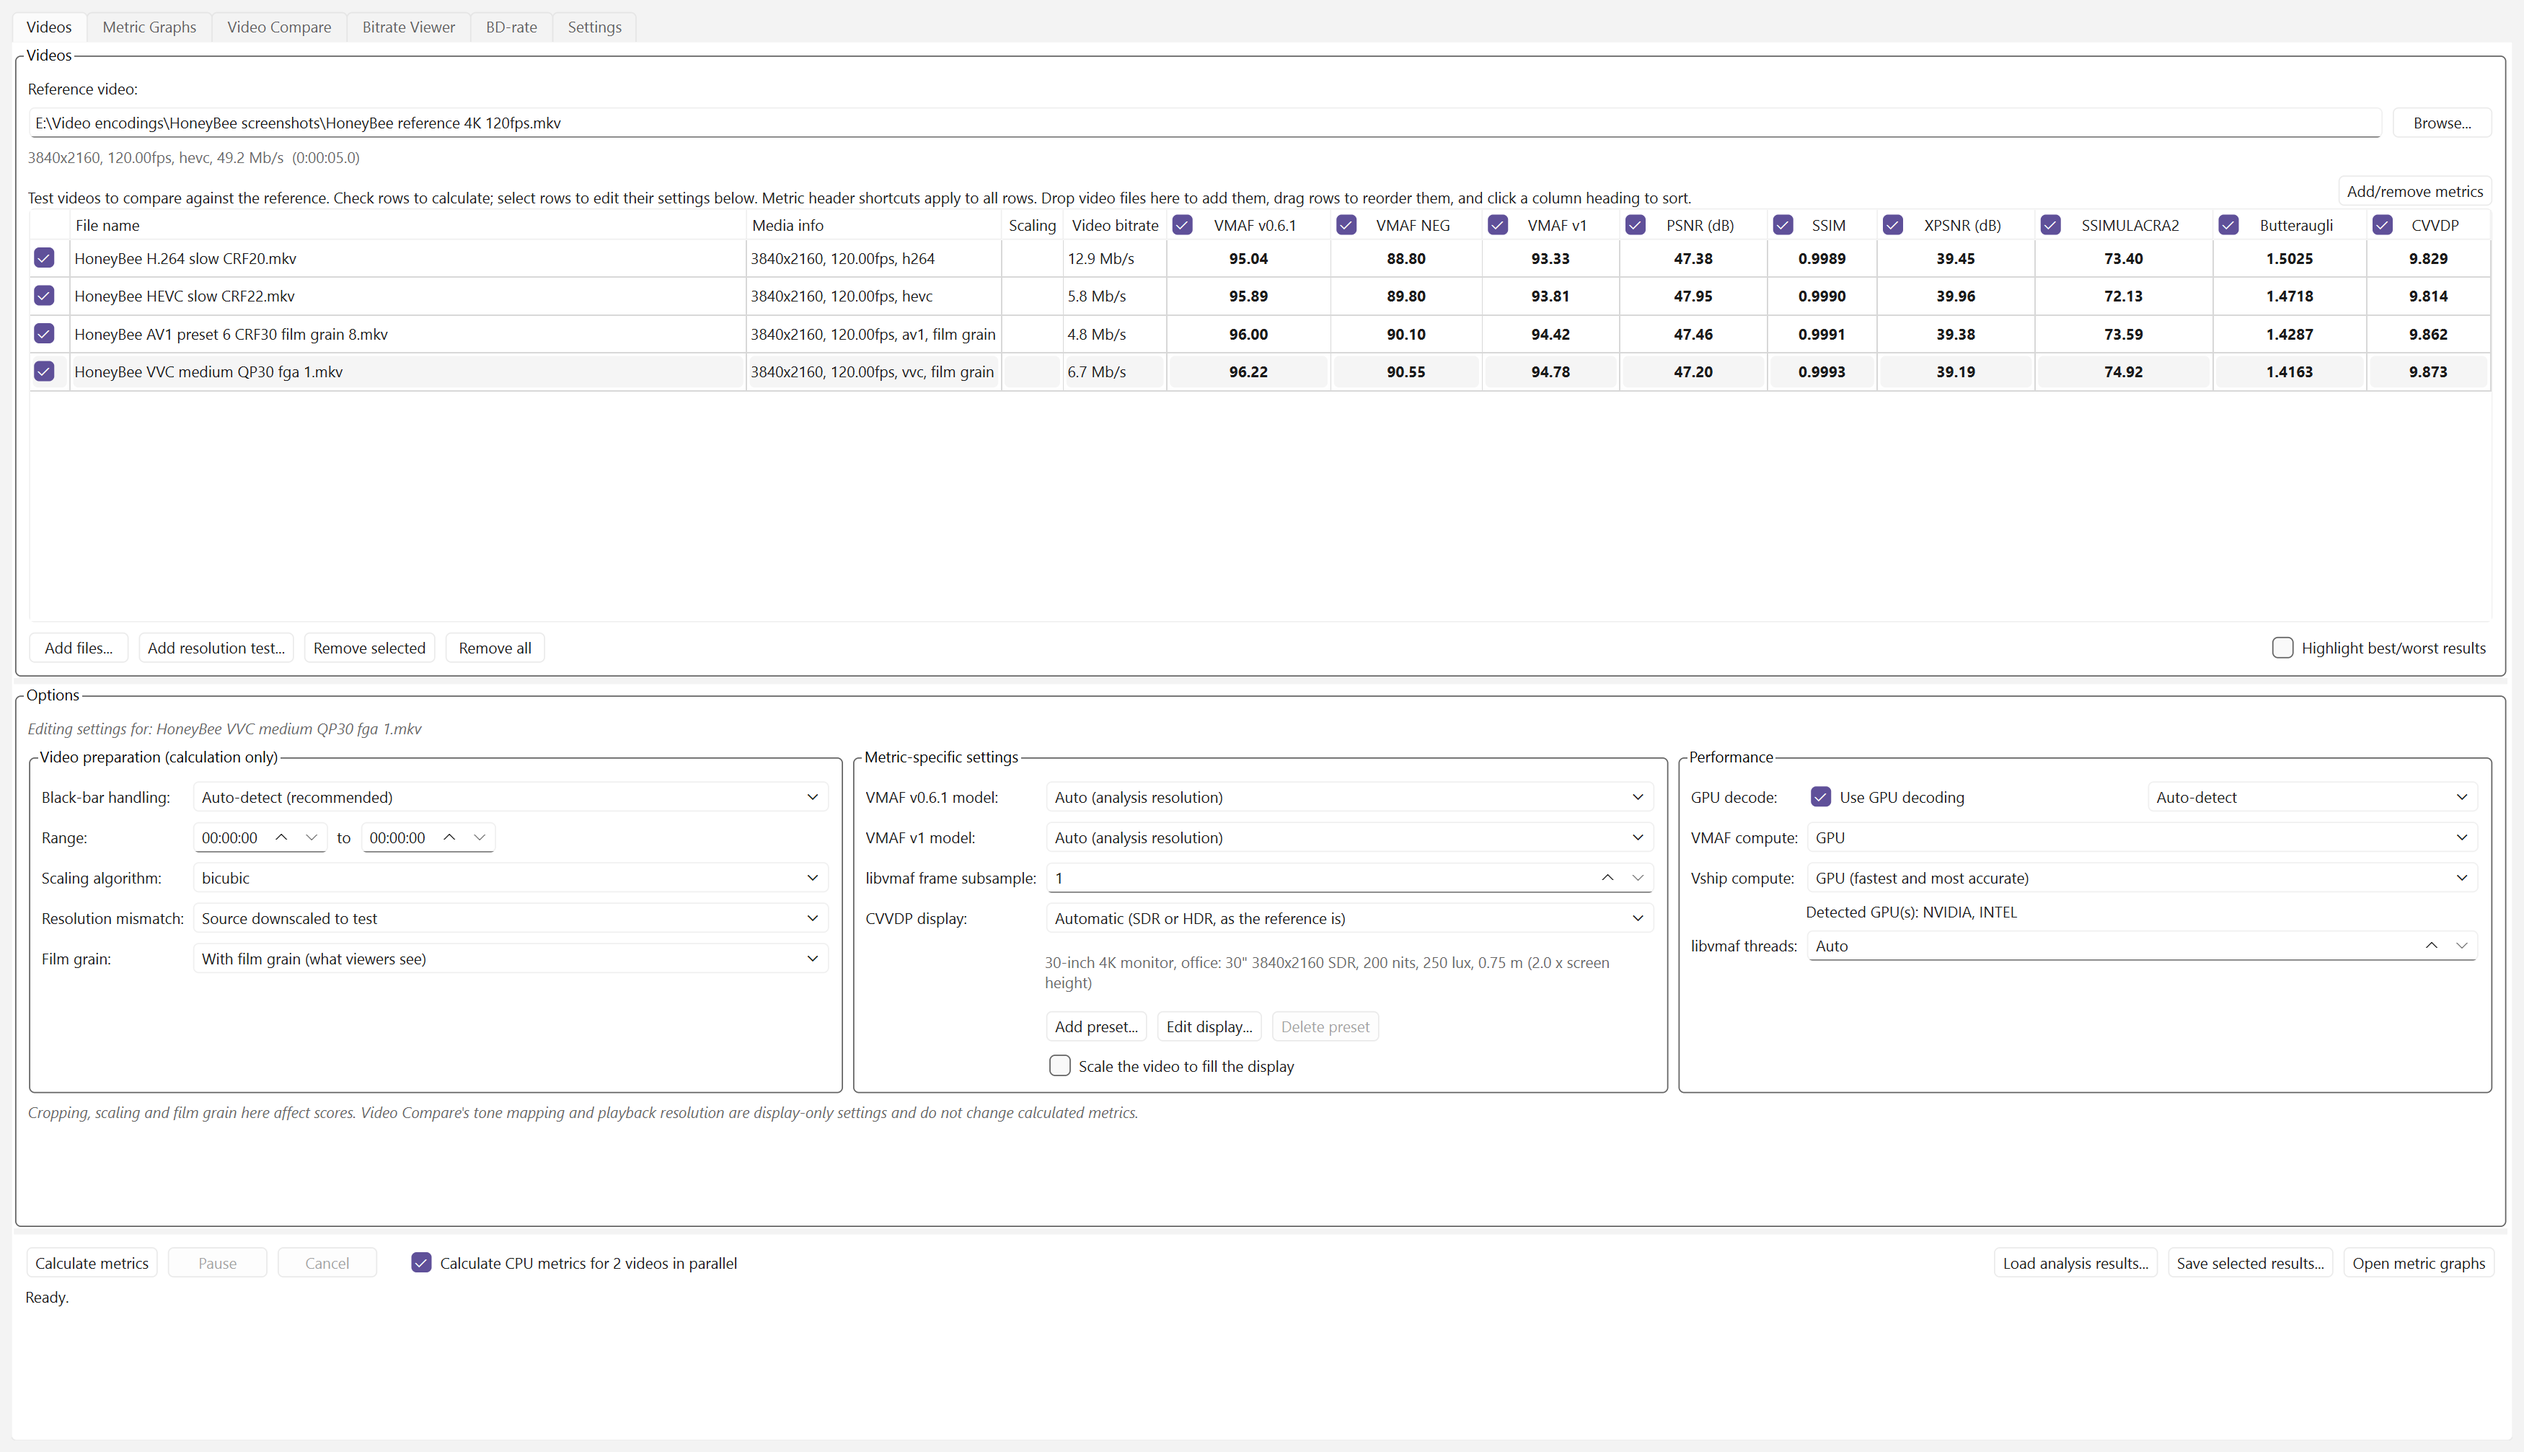
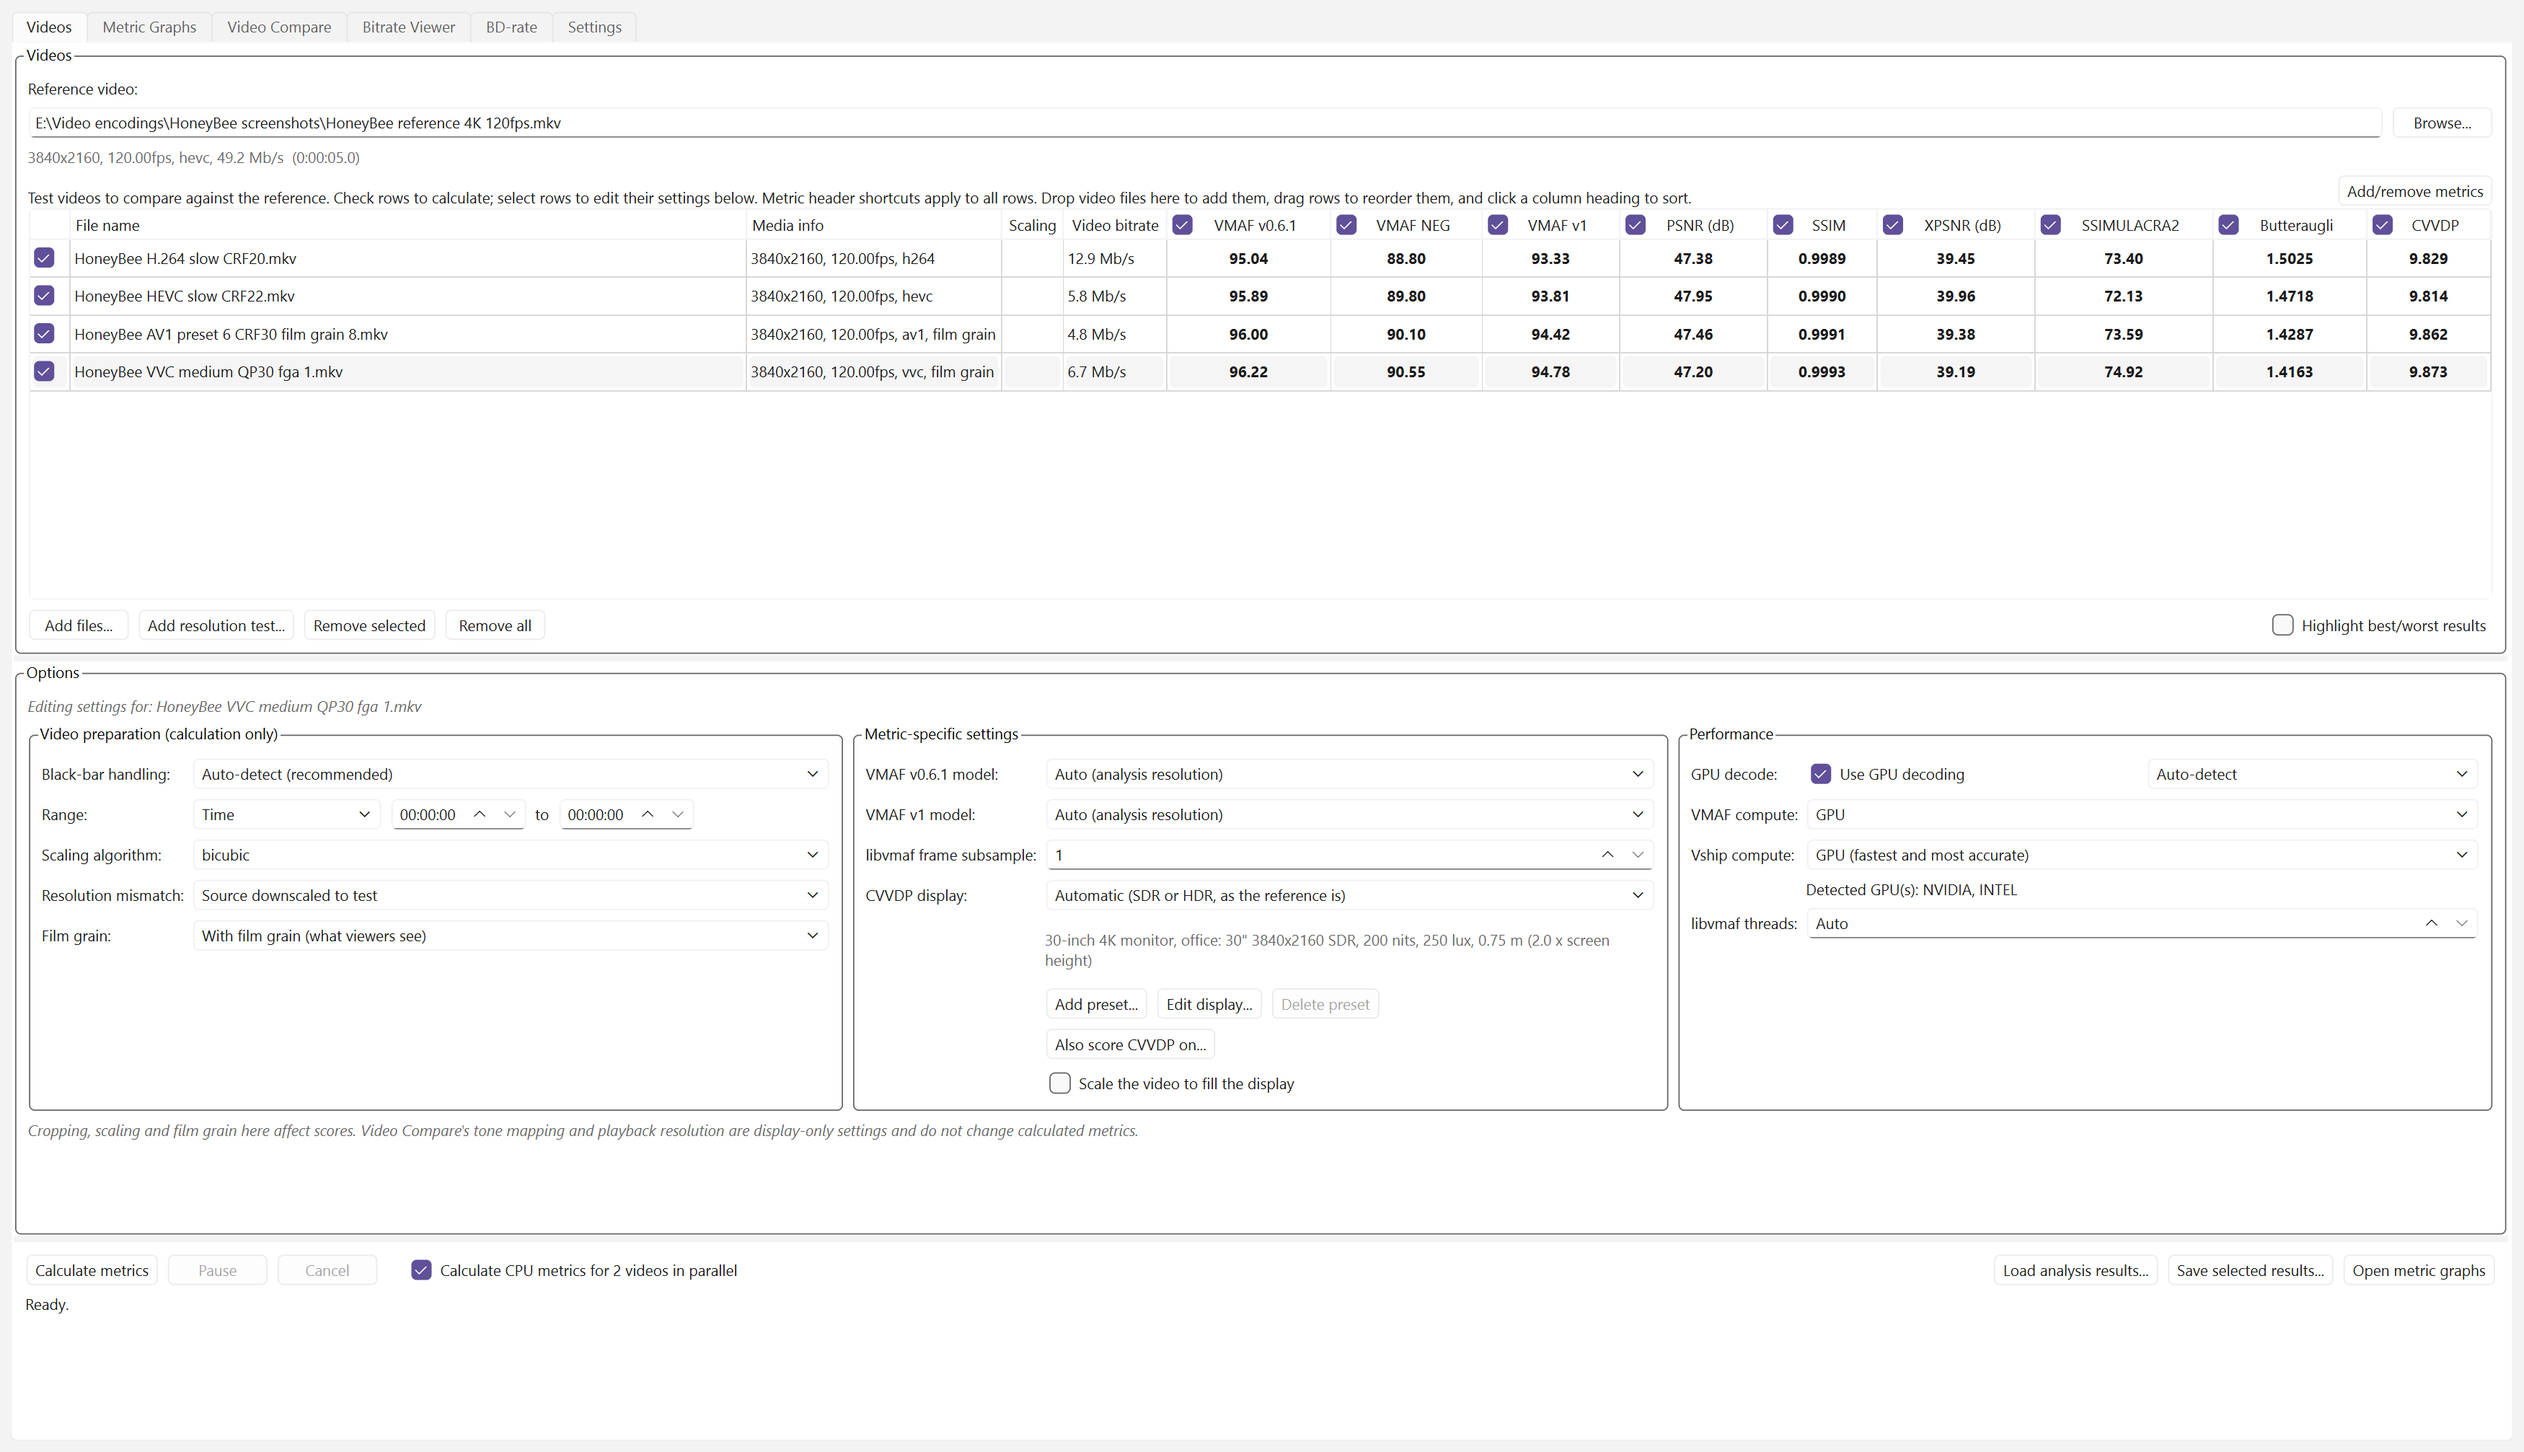
docs: v2.5 changelog, README and screenshots
The changelog's v2.5 section and the README's blurb and feature lines are
the texts approved for the release. Screenshots 01 Videos (the Range type
box, "Also score CVVDP on...") and 02 Metric Graphs (a #17 frame range and
its statistics) are retaken from the window; the other three show nothing
that changed. THIRD_PARTY.md gives the Mac dav2d's SHA-256 as the v2.5 Mac
release build made it (1,479,584 bytes), as the Windows row does.

diff --git a/docs/THIRD_PARTY.md b/docs/THIRD_PARTY.md
@@ -46,7 +46,7 @@ each tool, as on Windows. FFmpeg and ffprobe themselves are not bundled
 | VVdeC, Fraunhofer HHI's VVC decoder, linked into `libavcodec.63.dylib` | FFmpeg's decoder `libvvdec`, which decodes VVC and adds its H.274 film grain, as on Windows: VVdeC's master at [17e0f2f](https://github.com/fraunhoferhhi/vvdec/commit/17e0f2f2089c5c0553f1bfc486b1b7aa551e7819) with the same pull requests merged (`scripts/patches/vvdec/4kvcd-pull-requests.patch`), its library only, built by `scripts/build_ffmpeg_decoders_macos.sh` as a static library with the Command Line Tools' clang | [VVdeC, BSD-3-Clause-Clear](https://github.com/fraunhoferhhi/vvdec/blob/master/LICENSE.txt), shipped as `resources/tools/ffmpeg/licenses/COPYING.vvdec.txt` |
 | Software frame decoder `software_frames.dylib` (this project's, `native/software_frames.cpp`) | As `software_frames.dll` on Windows: decodes, in the scoring process, the videos FFmpeg would decode in software for the GPU metrics and the app's PSNR, SSIM and XPSNR (`resources/native/`), built by `scripts/build_software_frames_macos.sh` with the Command Line Tools' clang. It is compiled against FFmpeg 9.0.2's public headers (`native/ffmpeg`) and calls, at run time, FFmpeg's libraries above, `libdav1d.dylib` (for AV1, through the layouts of dav1d's public headers) and `libdav2d.dylib` (for AV2, likewise) | [FFmpeg, LGPL 2.1 or later](https://ffmpeg.org/legal.html) (headers), [dav1d, BSD-2-Clause](https://code.videolan.org/videolan/dav1d/-/blob/master/COPYING), [dav2d, BSD-2-Clause](https://code.videolan.org/videolan/dav2d/-/blob/master/COPYING) |
 | dav1d 1.5.4 `libdav1d.dylib` (`resources/tools/ffmpeg/`) | The AV1 decoder for the software frame decoder, and AV1 in Video Compare where VideoToolbox cannot decode it (Macs before the M3): VideoLAN's release source ([dav1d-1.5.4.tar.xz](https://downloads.videolan.org/pub/videolan/dav1d/1.5.4/dav1d-1.5.4.tar.xz), pinned by its SHA-256), unmodified, built by `scripts/build_dav1d_macos.sh` with meson | [dav1d, BSD-2-Clause](https://code.videolan.org/videolan/dav1d/-/blob/master/COPYING), shipped as `licenses/COPYING.dav1d.txt` beside it |
-| dav2d `libdav2d.dylib` (`resources/tools/ffmpeg/`) | As `dav2d.dll` on Windows: the AV2 decoder for the software frame decoder and Video Compare's playback (FFmpeg has no AV2 decoder, and no GPU decodes AV2), loaded at run time through its API's structures as `native/dav2d/dav2d_api.h` mirrors them: VideoLAN's dav2d, which has no release yet, at commit [5bf33c8](https://code.videolan.org/videolan/dav2d/-/commit/5bf33c8f7587f5b50086f79261c44c069a5acedb) of its repository, unmodified, built by `scripts/build_dav2d_macos.sh` with meson; SHA-256 as the Mac release build prints it | [dav2d, BSD-2-Clause](https://code.videolan.org/videolan/dav2d/-/blob/master/COPYING), shipped as `licenses/COPYING.dav2d.txt` beside it |
[1 lines of base64/hex data omitted]
 | libjxl SSIMULACRA2 and Butteraugli tools (v0.12.0) `ssimulacra2`, `butteraugli_main` (`resources/tools/libjxl/`) | The CPU perceptual metrics: built from libjxl's v0.12.0 tag by `scripts/build_libjxl_macos.sh`, linked statically with libjxl's own copies of libpng, brotli, highway, skcms and zlib (libjxl publishes no macOS binaries) | As libjxl above; the bundled libraries' licences ship beside the tools (`LICENSE.*.txt`) |
 | libvmaf `libvmaf.dylib` (`resources/tools/libvmaf/`) | PSNR, SSIM and XPSNR in the app, VMAF v1's SpEED chroma and CAMBI where the GPU does not calculate them, and VMAF's prediction from the GPU's features: libvmaf-fast's release [v1.3](https://github.com/4KVCD/libvmaf-fast/releases/tag/libvmaf-fast-v1.3) (commit 28776652, the Windows DLL's), built without CUDA by `scripts/build_libvmaf_fast_macos.sh` with meson and clang's own floating-point settings | [libvmaf, BSD-2-Clause-Patent](https://github.com/Netflix/vmaf/blob/master/LICENSE), shipped in `resources/tools/libvmaf/licenses/` |
 | Khronos Vulkan loader `libvulkan.1.dylib` (`resources/tools/vulkan/`) | Vulkan for Vship and VMAF's engine (macOS has none of its own), pointed at MoltenVK by the app: [Vulkan-Loader](https://github.com/KhronosGroup/Vulkan-Loader) at its `vulkan-sdk-1.4.363.0` tag (commit fa21805), unmodified, built by `scripts/build_vship_macos.sh` with CMake | [Apache-2.0](https://github.com/KhronosGroup/Vulkan-Loader/blob/main/LICENSE.txt), shipped as `resources/tools/vulkan/licenses/LICENSE.vulkan-loader.txt` |

diff --git a/CHANGELOG.md b/CHANGELOG.md
@@ -1,5 +1,70 @@
 # Changelog
 
+## v2.5
+
+v2.5 adds statistics for any range of frames in Metric Graphs, black-bar crops entered by hand, ColorVideo VDP on more
+than one display in the window, ranges in frames, and fuller results files, and makes seeking in raw .266 and .265
+streams near instant, along with various bug fixes.
+
+### New features
+
+- Statistics for any range of frames in Metric Graphs: Shift+drag across a graph, or type the first and last frame,
+  and the table shows the mean, median, lows and thresholds of just those frames; the range is shaded on every graph
+  and included in Export graph as PNG (#17).
+- Black-bar crops entered by hand, for an encode cropped with HandBrake's or FFmpeg's own values: Black bars > Manual,
+  or `--source-crop` and `--test-crop` (#13).
+- ColorVideo VDP on further displays in the window: "Also score CVVDP on..." adds a row that scores ColorVideo VDP
+  alone on another display, without calculating the other metrics again (#15).
+- A range can be given in frames as well as in seconds (Range > Frames, `--frames`). ColorVideo VDP scores whole
+  seconds, so its range is rounded to the nearest second.
+- Results files (`--json`, Export results) now record how the run was made: every setting, the computer and its GPUs'
+  drivers, the decoders used, how the black bars were decided, and how long each step took (#14).
+- A test video with film grain can be added a second time to be scored without its grain (or with it), so the two
+  can be compared side by side.
+- Go to frame moves a zoomed graph to the frame (#16).
+- Bitrate Viewer: Go to frame and statistics for a range of frames, as in Metric Graphs.
+- Video Compare: Play on the last frame starts again from the first.
+
+### Performance
+
+- Seeking in a raw .266 or .265 stream in Video Compare: a jump to 1 hour in a 4K film takes **4.6 s** instead of
+  **4-5 minutes**, and seeks within what was already read take 0.1-1.1 s.
+
+### Bug fixes
+
+Wrong scores:
+
+- Fixed black bars with an odd number of lines being rounded down where HandBrake rounds them up, so an encode cropped
+  with HandBrake's values was 2-4 lines shorter than the source's crop and scored lower (#12).
+- Fixed a test video at another resolution being cropped 1 line off the source with Auto black bars, which lowered
+  every score.
+- Fixed wrong scores for an AV1 video whose resolution changes after its first 8 frames, on NVIDIA and AMD GPUs.
+- Fixed wrong scores for a monochrome (grayscale) H.264 video decoded on the GPU.
+
+Videos that could not be scored or played:
+
+- Fixed a VVC video whose resolution changes partway through failing with "the decoder failed: Generic error in an
+  external library".
+- Fixed a file whose timestamps are in decoding order (such as a raw stream copied into MP4 without timestamps) failing
+  in every decoder: it is now refused with the reason.
+- Fixed Video Compare playing nothing for a raw stream shorter than the source; videos of a different length are now
+  warned about as soon as they are added.
+
+Other:
+
+- Fixed Video Compare saying "detecting black bars..." forever when the tab was hidden and shown again during the
+  detection.
+- Fixed test videos that were still being read when Video Compare was opened not appearing in it.
+- Fixed ColorVideo VDP, SSIMULACRA2 and Butteraugli scores made with stock Vship of a full-range gray video being
+  calculated again on every run instead of loaded.
+- Fixed Cancel not responding while a run waited for another run's GPU check.
+- Fixed a missing FFmpeg being reported as "could not be run ([WinError 2] ...)" instead of "not found".
+- Fixed a possible crash on macOS when Video Compare's window was covered, minimised or restored as playback stopped.
+- Fixed the frame line in Metric Graphs moving off its frame when the window was resized.
+- Fixed a graph drag that went on after the mouse button was released, when the window missed the release.
+- Fixed the first run of the GPU VVC decoder after a driver update taking minutes on a busy CPU, a rare crash in
+  NVIDIA's driver during that run, and a slow close on Intel's GPUs.
+
 ## v2.4
 
 v2.4 adds an experimental GPU VVC decoder, BD-rate calculation, instant metric scores for any time range for a video

diff --git a/README.md b/README.md
@@ -2,14 +2,14 @@
 
 Calculate VMAF, VMAF NEG, VMAF v1, SSIMULACRA2, Butteraugli and ColorVideo VDP on NVIDIA, AMD, Intel and Apple GPUs, alongside PSNR, SSIM and XPSNR. Compare encodes with frame-exact playback that switches between the source and each encode instantly to easily spot differences.
 
-VideoMetricsLab v2.4 adds an experimental GPU VVC decoder, BD-rate calculation, instant metric scores for any time range for a video that's already been scored, a difference graph for 2 videos' scores and bitrate and improves resolution test speed up to 27x, along with various bug fixes. See the [changelog](CHANGELOG.md).
+VideoMetricsLab v2.5 adds statistics for any range of frames in Metric Graphs, black-bar crops entered by hand, ColorVideo VDP on more than one display in the window, ranges in frames, and fuller results files, along with various bug fixes. See the [changelog](CHANGELOG.md).
 
 ## Features
 
 **Metrics**
 - VMAF v0.6.1, VMAF NEG, VMAF v1, PSNR, SSIM, XPSNR, SSIMULACRA2, Butteraugli and ColorVideo VDP, for many test videos at once.
 - VMAF models for standard, phone, 4K and HFR viewing.
-- ColorVideo VDP scored for the display you choose, or automatically HDR or SDR to match the video.
+- ColorVideo VDP scored for the displays you choose, or automatically HDR or SDR to match the video.
 - Film grain scored as viewers see it, or without it: VVC, AV1 and AFGS1 grain, at any bit depth.
 - Resolution tests: how a video scores scaled down and back up, at any size, with your choice of scaling algorithm.
 
@@ -24,15 +24,16 @@ VideoMetricsLab v2.4 adds an experimental GPU VVC decoder, BD-rate calculation, 
 **Compare and inspect**
 - Frame-exact playback that switches instantly between the source and each encode (hold **S**), with zoom, at up to 120 fps in 4K HDR, in HDR on an HDR display, with film grain shown as it is scored and the soundtrack, up to 7.1.
 - Metric curves, statistics and per-frame scores (per second for ColorVideo VDP), with each metric's best and worst results highlighted.
+- Statistics for any range of frames: Shift+drag across a graph.
 - Bitrate by frame, second or GOP, with each frame's type (I, P or B).
 - A difference graph for 2 videos' scores and bitrate.
 - BD-rate calculation: how much bitrate one encoder saves over another at the same quality.
 
 **Workflow**
-- Black bars found the way HandBrake finds them, and resolution mismatches handled automatically.
+- Black bars found the way HandBrake finds them, or entered by hand, and resolution mismatches handled automatically.
 - Results saved and reloaded automatically; a metric added later is the only one calculated.
-- Metric scores for any time range of a video, instantly if the video has already been scored.
-- Scores and statistics exported as CSV or JSON.
+- Metric scores for any range of a video, in seconds or frames, instantly if the video has already been scored.
+- Scores and statistics exported as CSV or JSON, with every setting, the computer and the timings of the run.
 - Drag and drop videos, sort and reorder the list, and a dark theme, in 20 languages.
 - Raw video files such as .266 open directly, with their frame rate read from the stream.
 - A command line, `VideoMetricsLab-cli`, for scripts: comparisons, bitrate and BD-rate. It also reads raw video streams and .yuv files.
